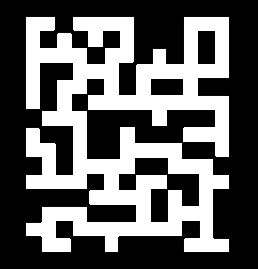
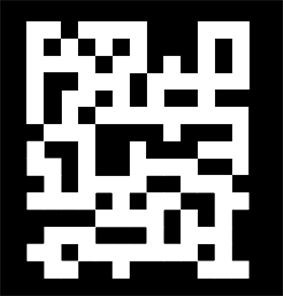
...

Changed region(s): [[0.062, 0.0595, 0.8992, 0.9517]]

diff --git a/HCI2ProyectoUno/src/main/java/Modelo/PathFinder.java b/HCI2ProyectoUno/src/main/java/Modelo/PathFinder.java
@@ -27,7 +27,7 @@ public class PathFinder {
 	int algorithm;
 
 	int overAlgorithm, overOption, overGraph;
-	int offX = 10, offY = 10;
+	int offX = 150, offY = 400;
 
 	boolean[] showOption = new boolean[3];
 
@@ -44,7 +44,8 @@ public class PathFinder {
 
 	public PathFinder(PApplet app) {
 		this.app=app;
-		
+	//	offX = (int) (app.width*0.6F);
+	//	offY = (int) (app.height*0.5F);
 
 		/*
 		 * MAP 1 : The maze created in the same way as the first map but has
@@ -52,9 +53,9 @@ public class PathFinder {
 		 */
 		// graphNo = 1;
 		nodeSize = 15.0f;
-		graphImage = app.loadImage("../data/Laberinto.png");
+		graphImage = app.loadImage("../data/Laberinto-1.png");
 		gs = new Graph();
-		makeGraphFromBWimage(gs, graphImage, null, 17, 17, false);
+		makeGraphFromBWimage(gs, graphImage, null, 16, 17, false);
 		gNodes = gs.getNodeArray();
 		end = gNodes[(int) app.random(0, gNodes.length / 4)].id();
 		do
@@ -81,7 +82,7 @@ public class PathFinder {
 		app.pushMatrix();
 		app.translate(offX, offY);
 		if (graphImage != null)
-			app.image(graphImage, 0, 0);
+			app.image(graphImage, +6, -6);
 		// println(mouseX+" "+mouseY);
 
 		/*
@@ -290,7 +291,7 @@ public class PathFinder {
 		int dy = backImg.height / tilesY;
 		int sx = dx / 2, sy = dy / 2;
 		// use deltaX to avoid horizontal wrap around edges
-		int deltaX = tilesX + 1; // must be > tilesX
+		int deltaX = tilesX + 3; // must be > tilesX
 
 		float hCost = dx, vCost = dy, dCost = app.sqrt(dx * dx + dy * dy);
 		float cost = 0;
